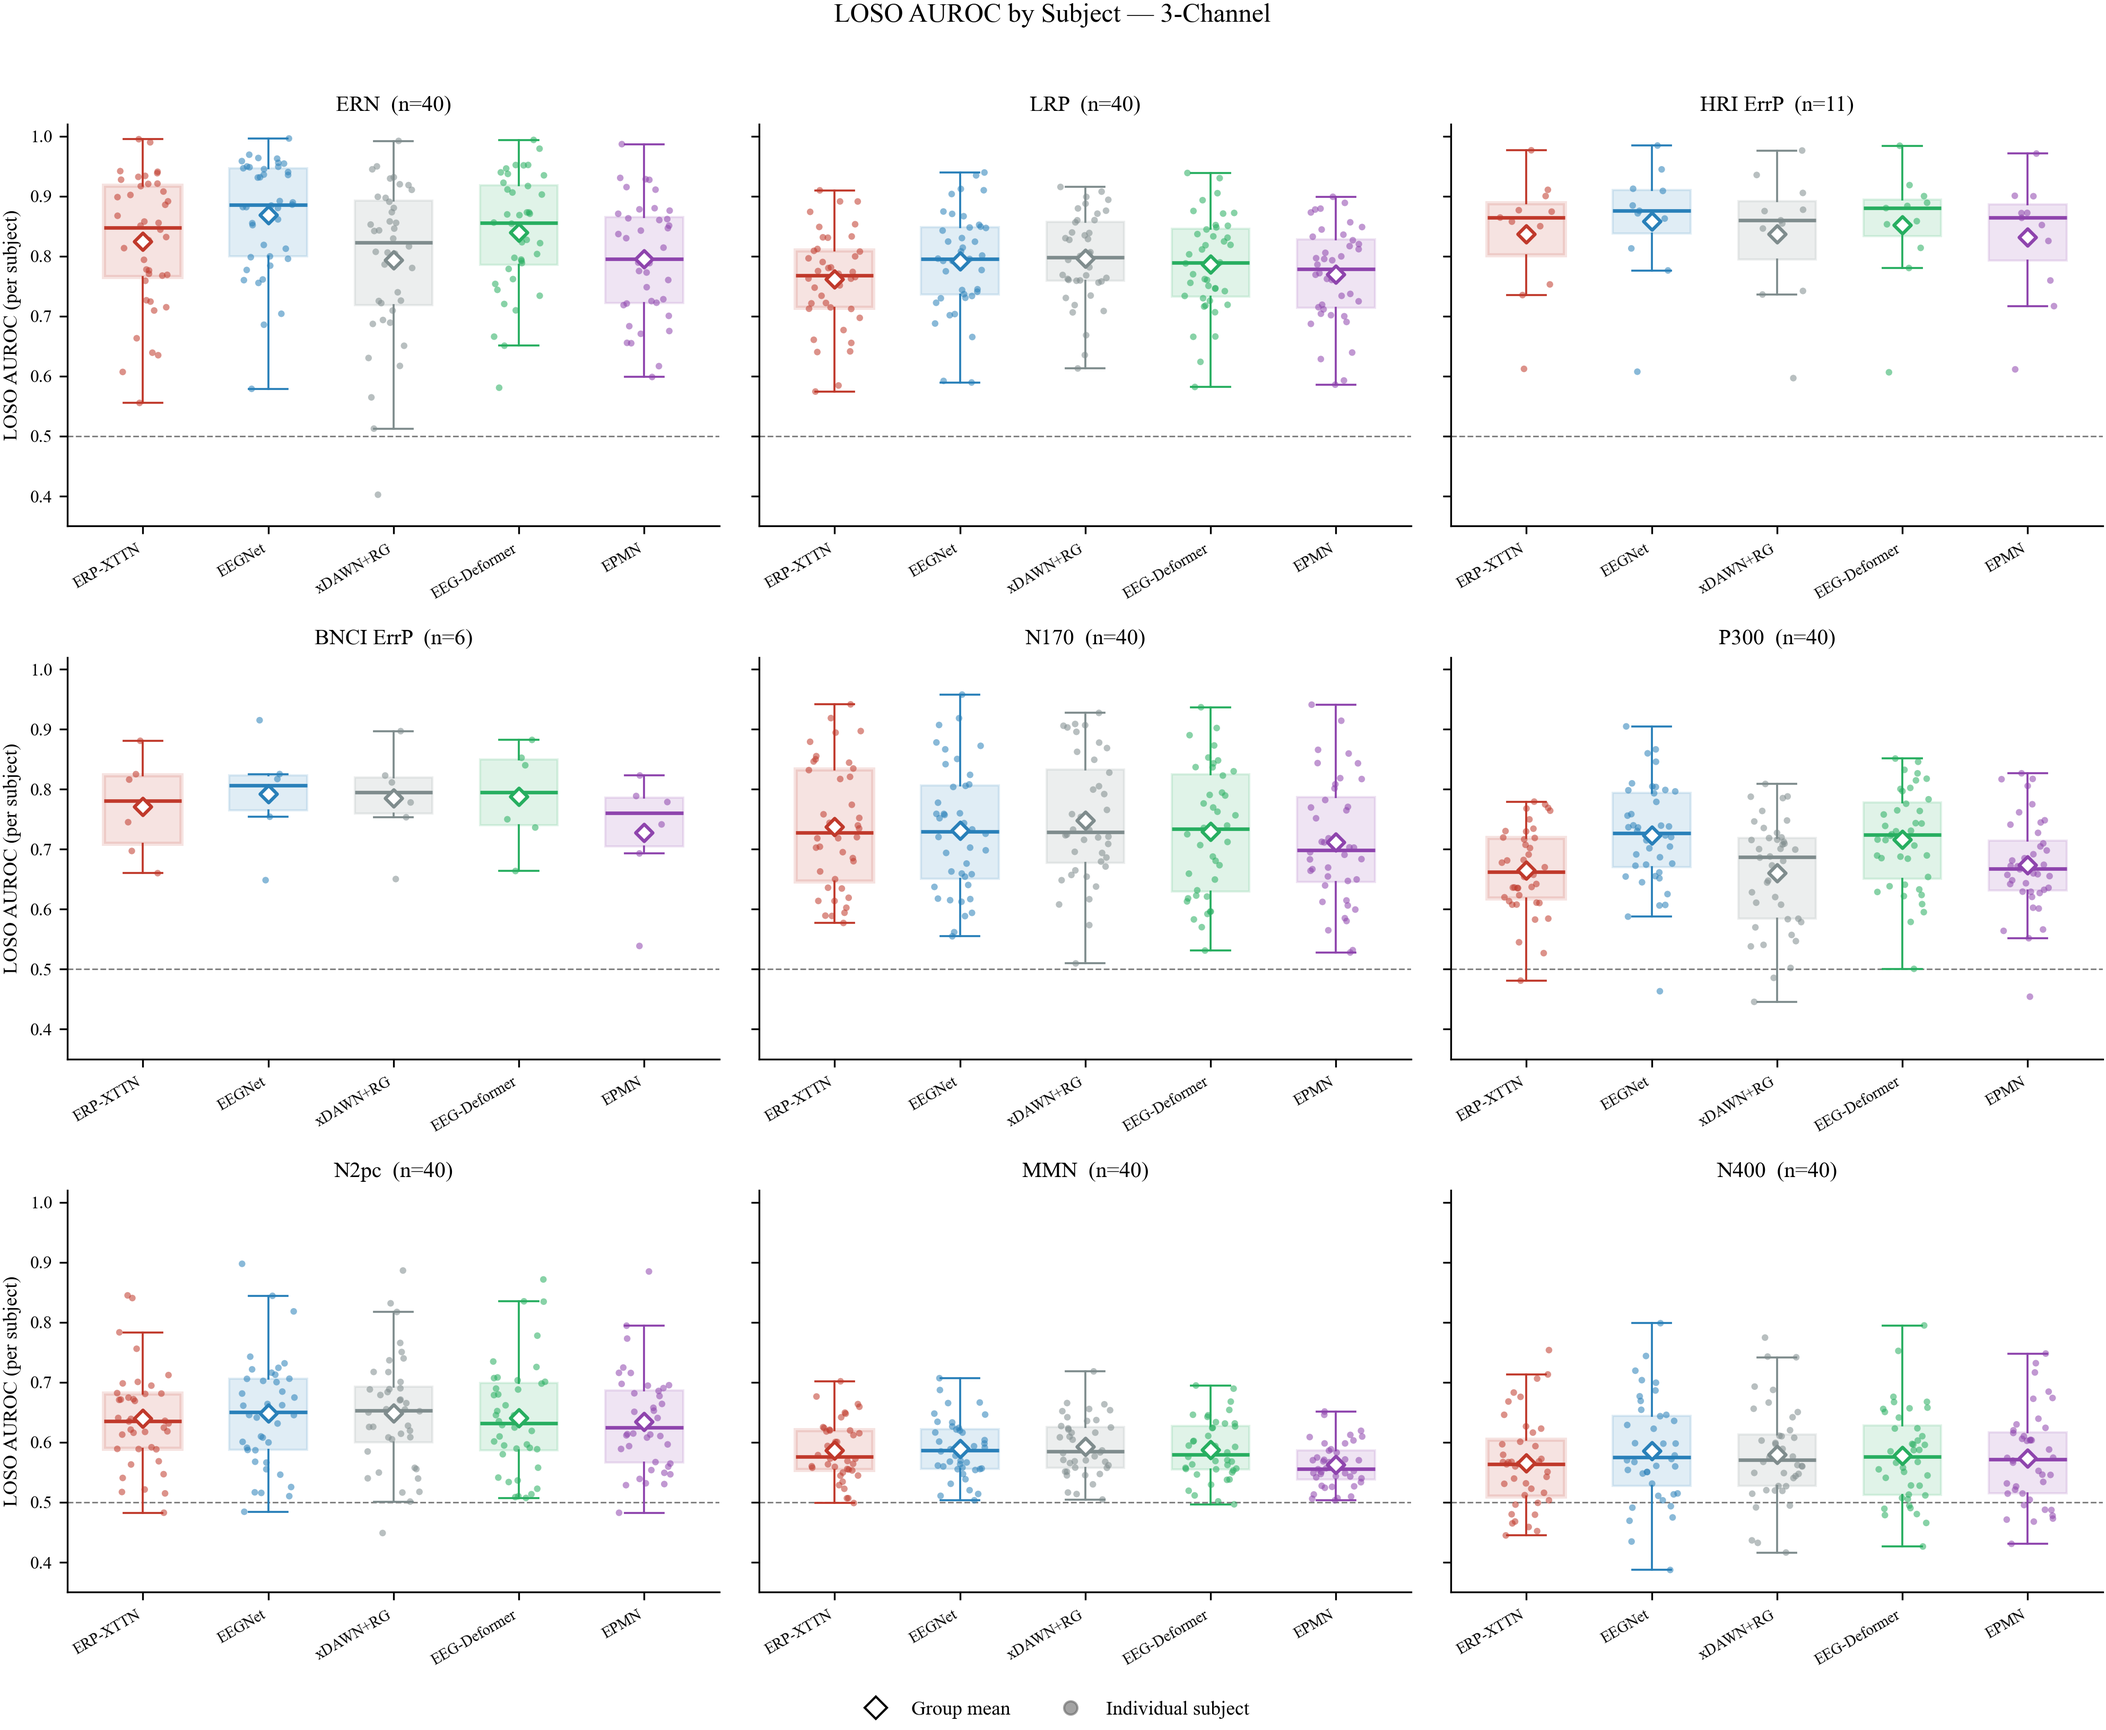
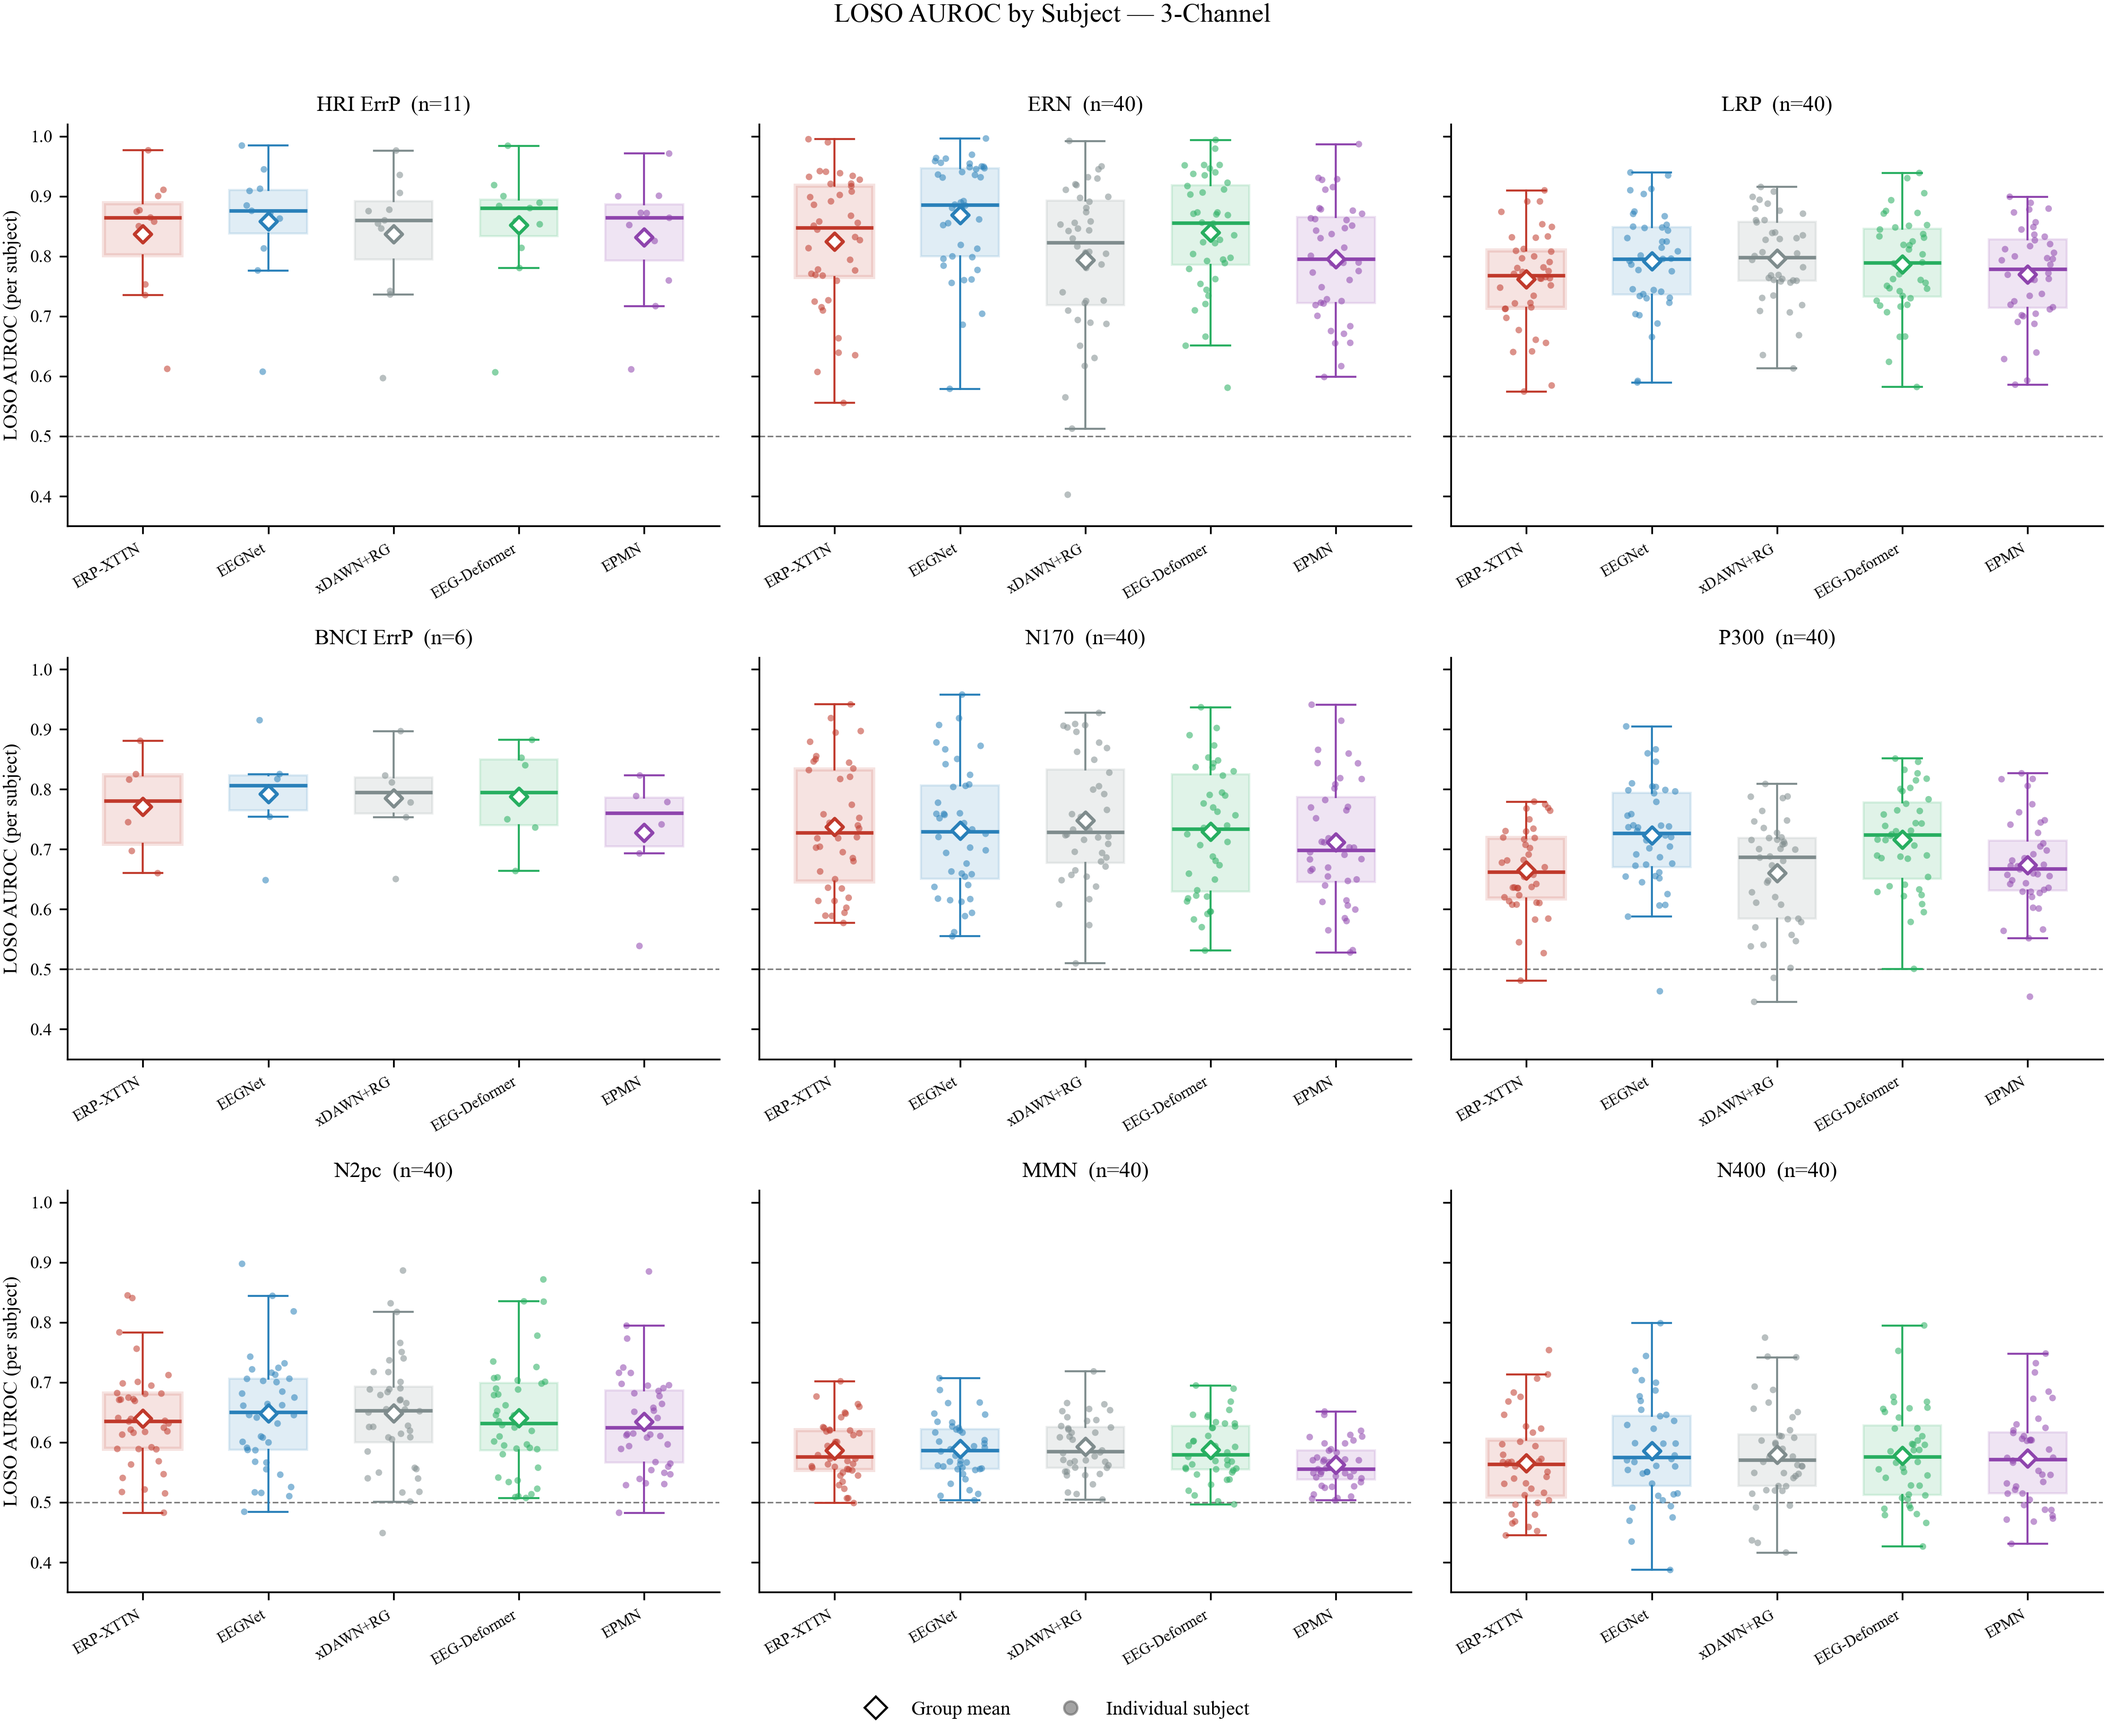
update paper figures again

diff --git a/07_gen_paper_figures.py b/07_gen_paper_figures.py
@@ -1331,7 +1331,7 @@ def fig_persubject_auroc(montage, out_name):
     axes = axes.ravel()
     any_data = False
 
-    for di, row in enumerate(DATASETS):
+    for di, row in enumerate(_difficulty_order()):
         ax = axes[di]
         var_dir = row[var_pick]
         n_subj = 0
@@ -2150,6 +2150,63 @@ def write_ablation_table(out_path):
     _tex(out_path, L)
 
 
+def _learned_head_agg(ds_dir, var_dir):
+    """Seed-averaged learned-head ladder_forward from validation_learned.json."""
+    base = DATASETS_DIR / ds_dir / 'results' / 'tmin0ms_tmax800ms' / var_dir / 'ablation_erpxttn_learned_readout'
+    acc = {}
+    ns = 0
+    for s in range(1, 6):
+        p = base / f'seed-{s}' / 'validation_learned.json'
+        if not p.exists():
+            continue
+        lf = json.load(open(p)).get('ladder_forward', {})
+        if not lf:
+            continue
+        ns += 1
+        for k, v in lf.items():
+            if isinstance(v, dict) and 'mean' in v:
+                acc.setdefault(k, []).append(v['mean'])
+    if not acc:
+        return None
+    return {k: float(np.mean(v)) for k, v in acc.items()}
+
+
+def write_polarity_contrast_table(out_path):
+    by = {d[1]: d for d in DATASETS}
+    L = [r'% Table S22 — Polarity-inversion contrast: grounded vs learned readout',
+         r'\begin{table}[t]', r'\centering', r'\setlength{\tabcolsep}{6pt}',
+         r'\caption{%',
+         r'Effect of prototype polarity inversion on the grounded routing readout '
+         r'versus the unconstrained learned classification head of the original '
+         r'ERP-XTTN \cite{wyman2024}, at the three-channel montage '
+         r'(mean AUROC, LOSO, seed-averaged across five seeds). '
+         r'Both readouts operate over the identical attention tensor and identical '
+         r'frozen prototypes; only the readout differs. Inversion is applied at '
+         r'inference on the frozen model. A readout that depends on prototype content '
+         r'should reverse under inversion; one that classifies from attention-pattern '
+         r'geometry should be unaffected. Noise-null values for the grounded arm are '
+         r'in Table~\ref{sup:tab-grounding-3-routing}. '
+         r'Datasets ordered by mean AUROC across all five methods, descending.%',
+         r'}',
+         r'\label{sup:tab-polarity-contrast}',
+         r'\begin{tabular}{lcccc}', r'\toprule',
+         r'Dataset & Grounded intact & Grounded polarity-inv. '
+         r'& Learned head intact & Learned head polarity-inv. \\',
+         r'\midrule']
+    for lab, dsdir in _ABL_DS:
+        v3 = by[dsdir][2]
+        gagg, _, _ = _val_agg_sup(dsdir, v3)
+        gi = gagg.get('routing_auroc') if gagg else None
+        gp = gagg.get('ladder_polarity') if gagg else None
+        lagg = _learned_head_agg(dsdir, v3)
+        li = lagg.get('intact') if lagg else None
+        lp = lagg.get('polarity') if lagg else None
+        cells = [f'{v:.2f}' if v is not None else '--' for v in (gi, gp, li, lp)]
+        L.append(f'{lab} & ' + ' & '.join(cells) + r' \\')
+    L += [r'\bottomrule', r'\end{tabular}', r'\end{table}']
+    _tex(out_path, L)
+
+
 def write_wilcoxon_table(out_path):
     st = _paired_stats()
     labels, N = st['labels'], st['N']
@@ -2879,6 +2936,7 @@ def main():
     write_grounding_routing_table(OUT_DIR / 'tableS19_grounding_routing_3ch.tex', '3-channel', 'S19')
     write_grounding_amp_table(OUT_DIR / 'tableS20_grounding_amp_3ch.tex', '3-channel', 'S20')
     write_ablation_table(OUT_DIR / 'tableS21_ablation.tex')
+    write_polarity_contrast_table(OUT_DIR / 'tableS22_polarity_contrast.tex')
 
     print('HRI Cz-only morphology...')
     hri = next(r for r in DATASETS if r[1] == 'hri_errp_cursor')

diff --git a/paper_figures/tableS22_polarity_contrast.tex b/paper_figures/tableS22_polarity_contrast.tex
@@ -1,0 +1,19 @@
+% Table S22 — Polarity-inversion contrast: grounded vs learned readout
+\begin{table}[t]
+\centering
+\setlength{\tabcolsep}{6pt}
+\caption{%
+Effect of prototype polarity inversion on the grounded routing readout versus the unconstrained learned classification head of the original ERP-XTTN \cite{wyman2024}, at the three-channel montage (mean AUROC, LOSO, seed-averaged across five seeds). Both readouts operate over the identical attention tensor and identical frozen prototypes; only the readout differs. Inversion is applied at inference on the frozen model. A readout that depends on prototype content should reverse under inversion; one that classifies from attention-pattern geometry should be unaffected. Noise-null values for the grounded arm are in Table~\ref{sup:tab-grounding-3-routing}. Datasets ordered by mean AUROC across all five methods, descending.%
+}
+\label{sup:tab-polarity-contrast}
+\begin{tabular}{lcccc}
+\toprule
+Dataset & Grounded intact & Grounded polarity-inv. & Learned head intact & Learned head polarity-inv. \\
+\midrule
+HRI & 0.81 & 0.19 & 0.82 & 0.82 \\
+ERN & 0.81 & 0.19 & 0.82 & 0.82 \\
+P300 & 0.64 & 0.36 & 0.63 & 0.63 \\
+N400 & 0.54 & 0.46 & -- & -- \\
+\bottomrule
+\end{tabular}
+\end{table}
